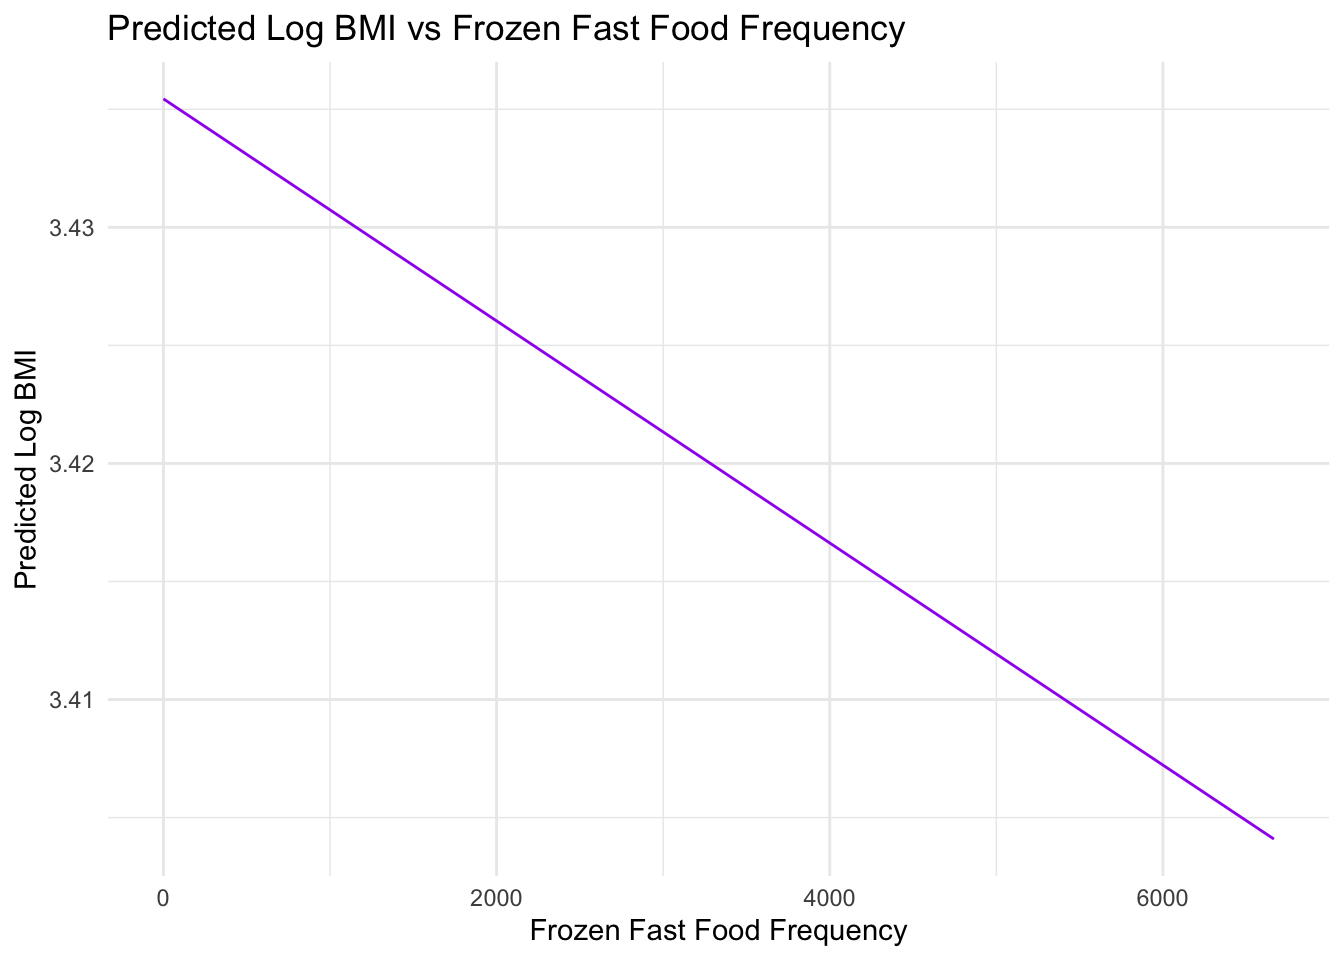
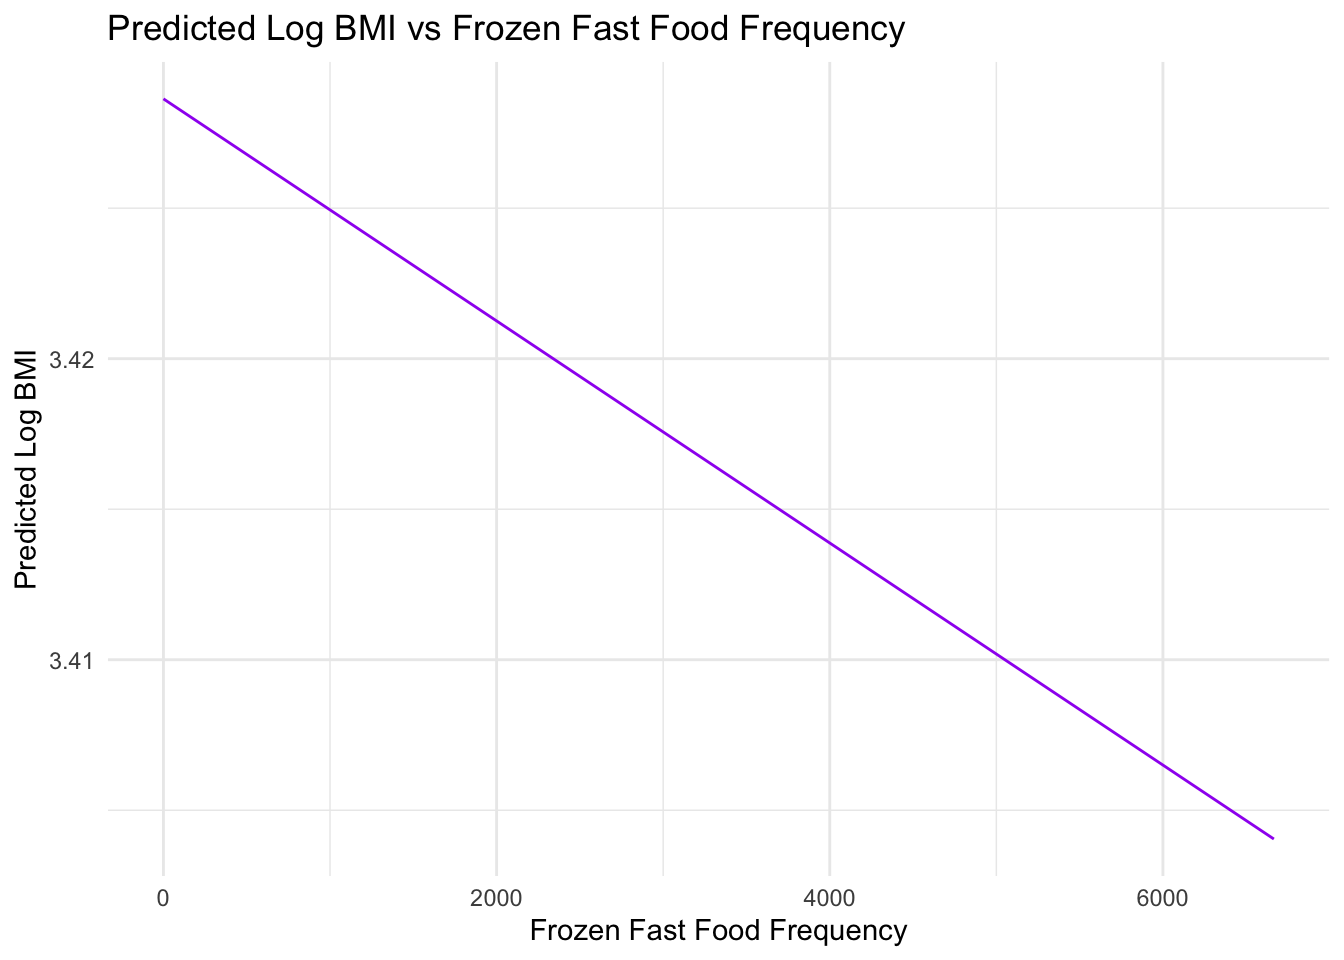
video

Changed region(s): [[0.0312, 0.7188, 0.0625, 0.75], [0.0312, 0.4688, 0.0625, 0.5], [0.0312, 0.2188, 0.0625, 0.25]]

diff --git a/Report.html b/Report.html
@@ -1151,9 +1151,9 @@ Analysis</p>
 <pre><code>## # A tibble: 3 × 2
 ##   model_type    m_rmse
 ##   &lt;chr&gt;          &lt;dbl&gt;
-## 1 fast_adjusted  0.317
-## 2 fast_crude     0.479
-## 3 fast_inter     0.351</code></pre>
+## 1 fast_adjusted  0.320
+## 2 fast_crude     0.477
+## 3 fast_inter     0.363</code></pre>
 <pre class="r"><code>cv_results |&gt; 
   select(starts_with(&quot;rmse&quot;)) |&gt; 
   pivot_longer(
@@ -1214,34 +1214,34 @@ print(best_adjusted_model_summary)</code></pre>
 ## 
 ## Residuals:
 ##      Min       1Q   Median       3Q      Max 
-## -0.71664 -0.15786 -0.01057  0.14687  0.95879 
+## -0.72949 -0.15992 -0.01134  0.15076  0.93870 
 ## 
 ## Coefficients:
 ##                                            Estimate Std. Error t value Pr(&gt;|t|)
-## (Intercept)                               3.437e+00  2.075e-02 165.615  &lt; 2e-16
-## freq_fast_food                           -1.004e-04  4.247e-05  -2.363  0.01819
-## age                                       5.160e-04  2.759e-04   1.871  0.06150
-## genderMale                               -4.633e-02  8.514e-03  -5.442 5.67e-08
-## marital_statusNever married              -2.317e-02  1.186e-02  -1.954  0.05083
-## marital_statusWidowed/Divorced/Separated -2.546e-02  1.114e-02  -2.284  0.02242
-## raceMexican American                     -1.428e-02  1.423e-02  -1.003  0.31584
-## raceOther                                -1.657e-01  1.857e-02  -8.919  &lt; 2e-16
-## raceOther Hispanic                       -2.638e-02  1.531e-02  -1.723  0.08495
-## raceWhite                                -3.076e-02  1.052e-02  -2.925  0.00347
-## educationHigh school graduate            -1.382e-02  1.383e-02  -0.999  0.31778
-## educationLess than 9th grade             -1.175e-02  2.029e-02  -0.579  0.56244
-## educationSome college or AA degree        5.513e-03  1.356e-02   0.406  0.68446
-## income_to_poverty                         1.907e-04  3.068e-03   0.062  0.95045
+## (Intercept)                               3.432e+00  2.053e-02 167.189  &lt; 2e-16
+## freq_fast_food                           -9.807e-05  4.278e-05  -2.292   0.0219
+## age                                       3.743e-04  2.763e-04   1.355   0.1756
+## genderMale                               -4.479e-02  8.588e-03  -5.216 1.95e-07
+## marital_statusNever married              -2.141e-02  1.208e-02  -1.773   0.0764
+## marital_statusWidowed/Divorced/Separated -2.121e-02  1.109e-02  -1.913   0.0559
+## raceMexican American                     -9.082e-03  1.420e-02  -0.639   0.5226
+## raceOther                                -1.714e-01  1.875e-02  -9.140  &lt; 2e-16
+## raceOther Hispanic                       -2.224e-02  1.555e-02  -1.431   0.1526
+## raceWhite                                -2.832e-02  1.064e-02  -2.662   0.0078
+## educationHigh school graduate            -6.437e-03  1.382e-02  -0.466   0.6414
+## educationLess than 9th grade             -1.885e-03  2.041e-02  -0.092   0.9264
+## educationSome college or AA degree       -3.254e-03  1.355e-02  -0.240   0.8102
+## income_to_poverty                         2.728e-03  3.104e-03   0.879   0.3795
 ##                                             
 ## (Intercept)                              ***
 ## freq_fast_food                           *  
-## age                                      .  
+## age                                         
 ## genderMale                               ***
 ## marital_statusNever married              .  
-## marital_statusWidowed/Divorced/Separated *  
+## marital_statusWidowed/Divorced/Separated .  
 ## raceMexican American                        
 ## raceOther                                ***
-## raceOther Hispanic                       .  
+## raceOther Hispanic                          
 ## raceWhite                                ** 
 ## educationHigh school graduate               
 ## educationLess than 9th grade                
@@ -1250,10 +1250,10 @@ print(best_adjusted_model_summary)</code></pre>
 ## ---
 ## Signif. codes:  0 &#39;***&#39; 0.001 &#39;**&#39; 0.01 &#39;*&#39; 0.05 &#39;.&#39; 0.1 &#39; &#39; 1
 ## 
-## Residual standard error: 0.2355 on 3158 degrees of freedom
-##   (5938 observations deleted due to missingness)
-## Multiple R-squared:  0.03801,    Adjusted R-squared:  0.03405 
-## F-statistic: 9.598 on 13 and 3158 DF,  p-value: &lt; 2.2e-16</code></pre>
+## Residual standard error: 0.2372 on 3159 degrees of freedom
+##   (5937 observations deleted due to missingness)
+## Multiple R-squared:  0.0362, Adjusted R-squared:  0.03223 
+## F-statistic: 9.126 on 13 and 3159 DF,  p-value: &lt; 2.2e-16</code></pre>
 <p>The estimated <code>log(BMI)</code> is approximately 3.414 when all
 predictor variables are held at zero. To interpret this on the original
 BMI scale, you would calculate exp(3.414). This value represents the
@@ -1334,15 +1334,15 @@ kable(rmse_summary, format = &quot;markdown&quot;, caption = &quot;Summary of RM
 <tbody>
 <tr class="odd">
 <td align="left">adjusted</td>
-<td align="right">0.2348321</td>
+<td align="right">0.2350185</td>
 </tr>
 <tr class="even">
 <td align="left">crude</td>
-<td align="right">0.2370045</td>
+<td align="right">0.2370175</td>
 </tr>
 <tr class="odd">
 <td align="left">inter</td>
-<td align="right">0.2348007</td>
+<td align="right">0.2350270</td>
 </tr>
 </tbody>
 </table>
@@ -1481,9 +1481,9 @@ alongside the main effects.</p>
 <pre><code>## # A tibble: 3 × 2
 ##   model_type m_rmse
 ##   &lt;chr&gt;       &lt;dbl&gt;
-## 1 adjusted    0.248
-## 2 crude       0.309
-## 3 inter       0.339</code></pre>
+## 1 adjusted    0.246
+## 2 crude       0.308
+## 3 inter       0.314</code></pre>
 <p>According to the violin plot of the RMSE distribution for each model,
 the adjusted model consistently shows a concentrated distribution of
 lower RMSE values, meaning it has a superior predictive performance
@@ -1518,46 +1518,46 @@ print(best_adjusted_model_summary)</code></pre>
 ## 
 ## Residuals:
 ##      Min       1Q   Median       3Q      Max 
-## -0.70774 -0.16015 -0.01017  0.14748  1.09206 
+## -0.78970 -0.15881 -0.01053  0.14912  1.09502 
 ## 
 ## Coefficients:
 ##                                            Estimate Std. Error t value Pr(&gt;|t|)
-## (Intercept)                               3.408e+00  1.829e-02 186.337  &lt; 2e-16
-## freq_frozen                              -4.253e-06  2.514e-05  -0.169 0.865678
-## age                                       3.153e-04  2.434e-04   1.295 0.195247
-## genderMale                               -4.516e-02  7.544e-03  -5.986 2.34e-09
-## marital_statusNever married              -1.697e-02  1.056e-02  -1.608 0.107900
-## marital_statusWidowed/Divorced/Separated -2.215e-02  9.743e-03  -2.273 0.023087
-## raceMexican American                     -4.238e-03  1.272e-02  -0.333 0.739105
-## raceOther                                -1.692e-01  1.542e-02 -10.976  &lt; 2e-16
-## raceOther Hispanic                       -2.646e-02  1.336e-02  -1.980 0.047779
-## raceWhite                                -3.451e-02  9.354e-03  -3.689 0.000228
-## educationHigh school graduate             2.024e-02  1.187e-02   1.706 0.088139
-## educationLess than 9th grade              6.180e-03  1.603e-02   0.386 0.699884
-## educationSome college or AA degree        3.070e-02  1.174e-02   2.616 0.008936
-## income_to_poverty                         1.441e-03  2.748e-03   0.524 0.600039
+## (Intercept)                               3.422e+00  1.840e-02 185.913  &lt; 2e-16
+## freq_frozen                              -5.845e-05  3.573e-05  -1.636 0.101979
+## age                                       2.630e-04  2.462e-04   1.068 0.285465
+## genderMale                               -4.409e-02  7.577e-03  -5.819 6.38e-09
+## marital_statusNever married              -2.560e-02  1.075e-02  -2.382 0.017280
+## marital_statusWidowed/Divorced/Separated -2.170e-02  9.634e-03  -2.252 0.024365
+## raceMexican American                     -3.020e-03  1.279e-02  -0.236 0.813283
+## raceOther                                -1.751e-01  1.574e-02 -11.121  &lt; 2e-16
+## raceOther Hispanic                       -2.595e-02  1.337e-02  -1.941 0.052354
+## raceWhite                                -3.229e-02  9.436e-03  -3.422 0.000628
+## educationHigh school graduate             1.254e-02  1.191e-02   1.053 0.292502
+## educationLess than 9th grade              2.251e-03  1.622e-02   0.139 0.889620
+## educationSome college or AA degree        2.544e-02  1.176e-02   2.164 0.030530
+## income_to_poverty                        -5.737e-04  2.766e-03  -0.207 0.835727
 ##                                             
 ## (Intercept)                              ***
 ## freq_frozen                                 
 ## age                                         
 ## genderMale                               ***
-## marital_statusNever married                 
+## marital_statusNever married              *  
 ## marital_statusWidowed/Divorced/Separated *  
 ## raceMexican American                        
 ## raceOther                                ***
-## raceOther Hispanic                       *  
+## raceOther Hispanic                       .  
 ## raceWhite                                ***
-## educationHigh school graduate            .  
+## educationHigh school graduate               
 ## educationLess than 9th grade                
-## educationSome college or AA degree       ** 
+## educationSome college or AA degree       *  
 ## income_to_poverty                           
 ## ---
 ## Signif. codes:  0 &#39;***&#39; 0.001 &#39;**&#39; 0.01 &#39;*&#39; 0.05 &#39;.&#39; 0.1 &#39; &#39; 1
 ## 
-## Residual standard error: 0.2367 on 4061 degrees of freedom
-##   (5035 observations deleted due to missingness)
-## Multiple R-squared:  0.04125,    Adjusted R-squared:  0.03818 
-## F-statistic: 13.44 on 13 and 4061 DF,  p-value: &lt; 2.2e-16</code></pre>
+## Residual standard error: 0.2381 on 4079 degrees of freedom
+##   (5017 observations deleted due to missingness)
+## Multiple R-squared:  0.04143,    Adjusted R-squared:  0.03837 
+## F-statistic: 13.56 on 13 and 4079 DF,  p-value: &lt; 2.2e-16</code></pre>
 <p>Best-Fitting Model Analysis The best-fitting model, based on the
 cross-validation results, is the adjusted model. Thus, a detailed
 examination was conducted, and its summary statistics indicate that: The

diff --git a/home.html b/home.html
@@ -147,7 +147,7 @@
                 <div class="col-xl-5 col-lg-5 col-md-5 col-sm-12">
                     <div class="about-img">
                         <img src="assets/images/obesity.webp" alt="">
-                        <a href="https://www.youtube.com/watch?v=DJyxwIGdl8Y" class="video-popup"><i class="fa fa-play"></i></a>
+                        <a href="https://youtu.be/sQ1Yy5xwmLk" class="video-popup"><i class="fa fa-play"></i></a>
                     </div>
                 </div>
             </div>
